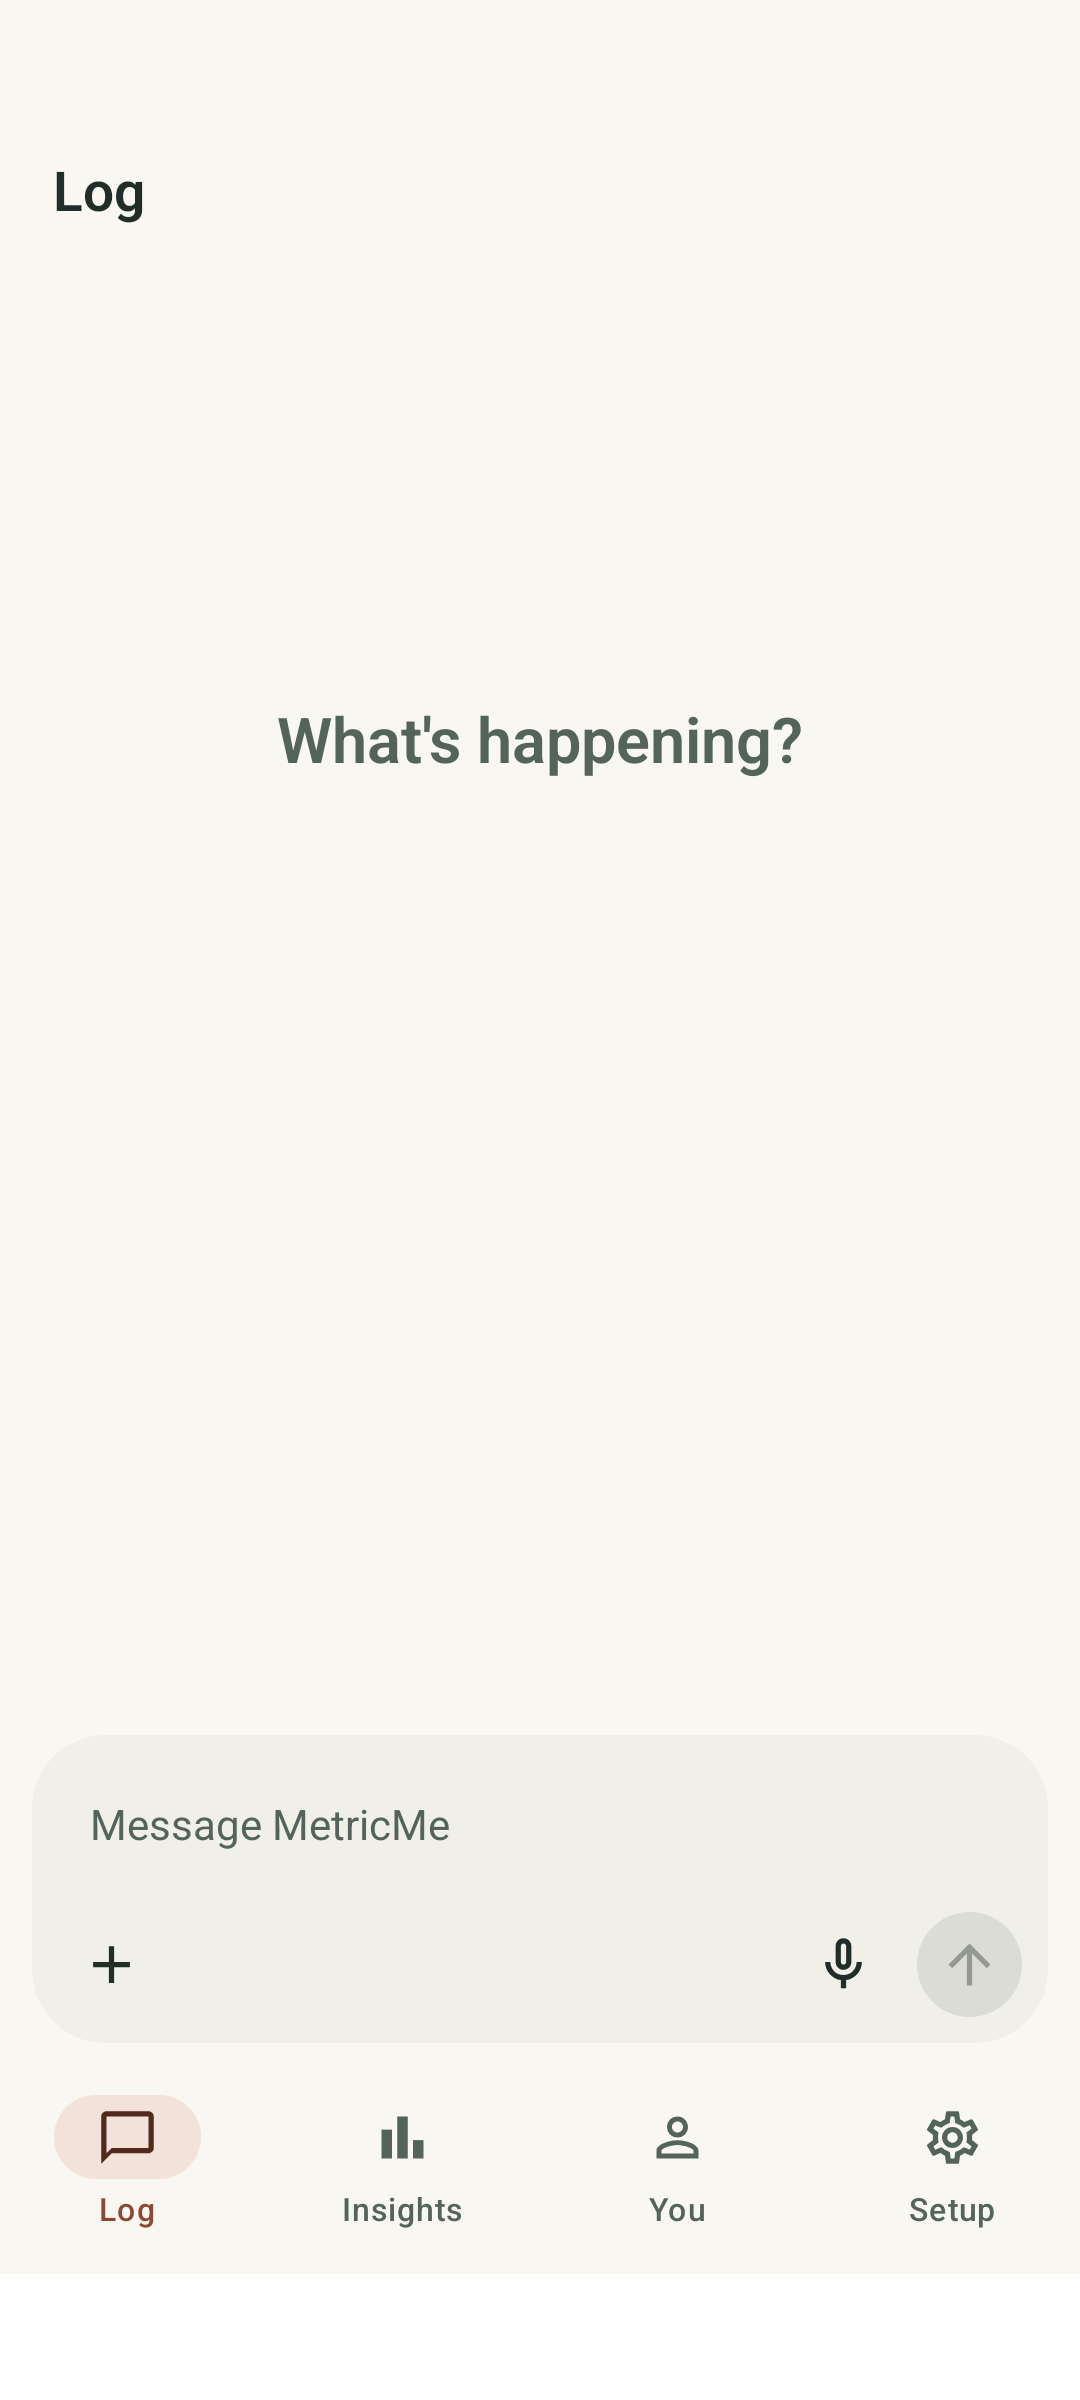
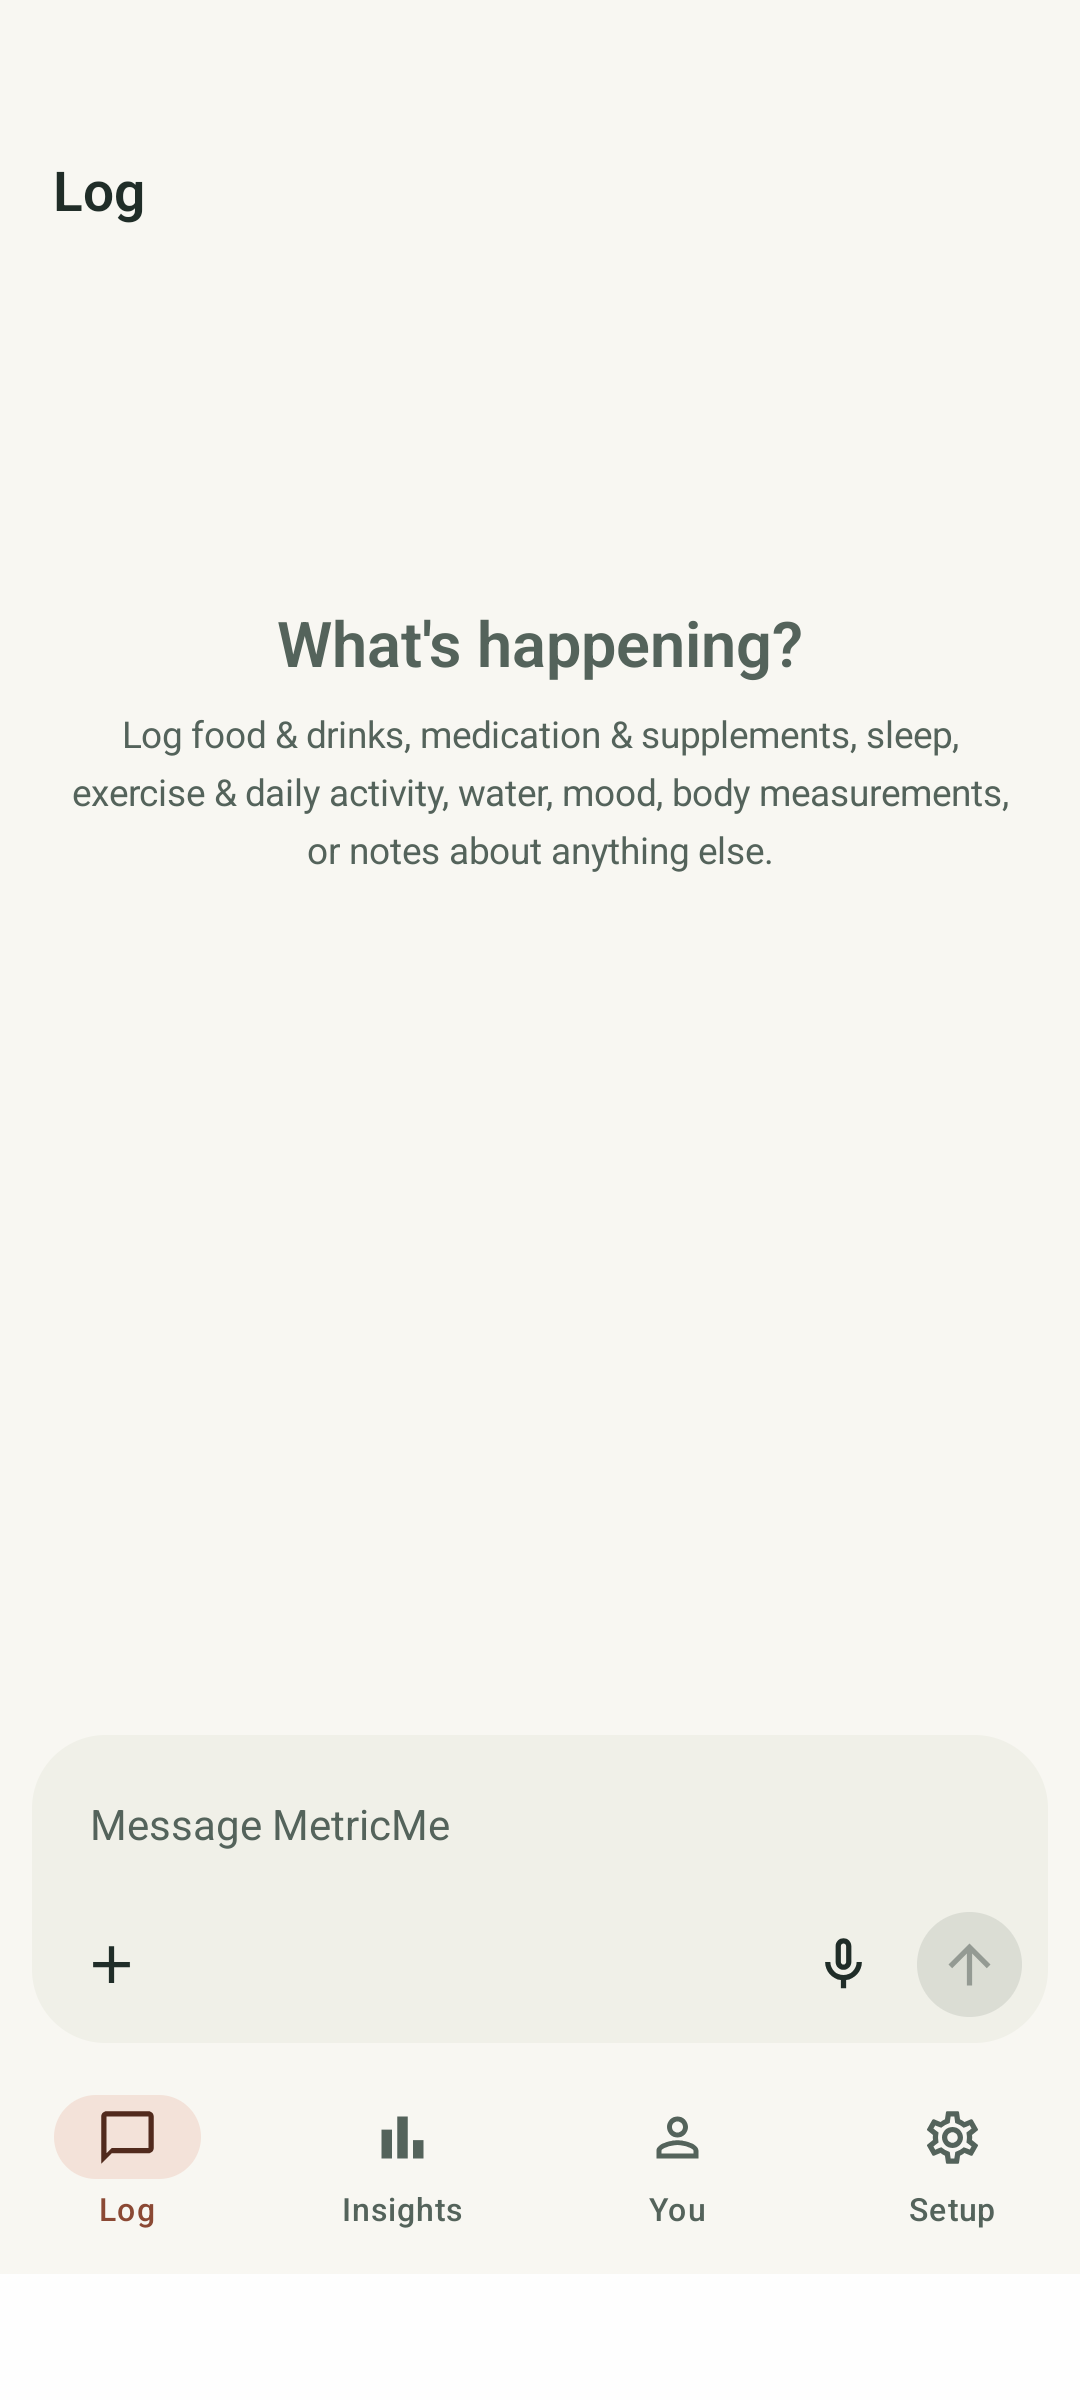
Document verified guided AI release and current interface screenshots [skip ci]

Changed region(s): [[0.0611, 0.25, 0.9167, 0.375]]

diff --git a/README.md b/README.md
@@ -2,10 +2,10 @@
 
 A calm, local-first native Android habit and health journal. Kotlin, Jetpack Compose Material 3, Hilt, Room, and a pure Kotlin domain module.
 
-**Current implementation: Android 0.5.0 chat interface.** Journal and AI capture share one screen for text, voice and photos. Clear statements become categorized, account-linked PostgreSQL records; ambiguous statements get clarification. Food estimates stay labelled and entries can be edited, undone or deleted. Insights query saved records and calculate descriptive summaries, rather than replaying a long chat. Offline manual logging remains available separately. See [the 0.5.0 interface and verification notes](docs/ANDROID-0.5.0.md).
+**Current implementation: Android 0.5.1 guided AI journal.** Journal and AI capture share one screen for text, voice and photos. Useful, clarified statements become categorized, account-linked PostgreSQL records. Food needs consumed portions and a calorie estimate; essential missing details trigger repeated focused questions. Separate Log and Insights task state survives app recreation. Food estimates stay labelled and entries can be edited, undone or deleted. Insights query saved records and calculate descriptive summaries, rather than replaying a long chat. Offline manual logging remains available separately. See [the 0.5.1 guidance and verification notes](docs/ANDROID-0.5.1.md).
 
-<img src="docs/screenshots/log.png" width="320" alt="MetricMe 0.5.0 chat logging screen captured on the CI emulator">
-<img src="docs/screenshots/insights.png" width="320" alt="MetricMe 0.5.0 Insights chat captured during tab and rotation tests">
+<img src="docs/screenshots/log.png" width="320" alt="MetricMe 0.5.1 guided chat logging screen captured on the CI emulator">
+<img src="docs/screenshots/you.png" width="320" alt="MetricMe 0.5.1 You tab with explicit age, gender and daily calorie target">
 
 ## Build
 
@@ -26,13 +26,15 @@ Debug APK: `app/build/outputs/apk/debug/app-debug.apk`. Test reports: `domain/bu
 
 ## Try the app
 
-[Download MetricMe 0.5.0](https://metricme-downloads.vercel.app/MetricMe-0.5.0.apk). It can update the downloadable 0.3.1 build in place; the earlier 0.3.0 debug build has an incompatible signing key.
+[Download MetricMe 0.5.1](https://metricme-downloads.vercel.app/MetricMe-0.5.1.apk). It can update the downloadable 0.3.1 build in place; the earlier 0.3.0 debug build has an incompatible signing key.
 
 Open **Setup → Sign in with a code**, approve the code in your browser, and return to MetricMe. Public service settings are prefilled; Advanced connection settings support custom deployments. Never put an OpenAI key in Android.
 
-The **Log** tab opens directly into a chat, with a microphone and an attachment menu for photos, camera and audio files. AI identifies the categories; there is no logging category picker. Speak, type or attach a photo and tap Send. After first-use consent, clear events are saved automatically under Food, Medication, Sleep, Activity, Water, Mood, Measurement or Note. Ambiguous statements get a question. Each entry can be edited/deleted, and the latest saved batch can be undone.
+The **Log** tab opens directly into a chat, with a microphone and an attachment menu for photos, camera and audio files. AI identifies the categories; there is no logging category picker. Speak, type or attach a photo and tap Send. After first-use consent, events with sufficient details are saved automatically under Food, Medication, Sleep, Activity, Water, Mood, Measurement or Note. Missing portion/preparation, dose, duration or other essential details get follow-up questions before the batch is saved. Each entry can be edited/deleted, and the latest saved batch can be undone.
 
 **Insights** is a separate database-backed chat with Daily, Weekly and Monthly summary shortcuts, table responses, and a question composer. Ask “When did I last have a burger?” to retrieve the latest matching saved record. Meal names, notes, portions and exact times are kept for three calendar months; nutrition-only records remain for longer-term summaries. See [0.4.1 retention and lookup behavior](docs/ANDROID-0.4.1.md). These features provide descriptive retrieval and aggregates, not causal conclusions or medical advice. See [the 0.4.0 behavior and verification report](docs/ANDROID-0.4.0.md).
+
+**You → Daily calorie target → Get AI recommendation** shares profile context after consent, then asks about physiology for the equation, usual activity, goal and whether a general estimate is suitable. The server calculates a reproducible starting estimate, which you must accept. Current profile and the dated accepted target can then inform Insights; profile changes invalidate the target. Gender identity is not used to infer physiology.
 
 **Setup → Data settings → Offline records** preserves the earlier local journal, Log forms and reminders. These Room records stay separate from the cloud journal and are not silently uploaded or included in cloud summaries. Name, age (calculated from date of birth), gender, height and weight are in **You**. **Setup** contains AI sign-in and collapsed data settings; offline records, reminders, old AI drafts and sample mode are kept there. Read [the reminder behavior and limitations](docs/REMINDERS.md). Older photo/audio drafts remain accessible for migration; they retain the original explicit review/confirmation flow.
 

diff --git a/docs/ANDROID-0.5.1.md b/docs/ANDROID-0.5.1.md
@@ -14,4 +14,10 @@ Profile and target files remain on the device. Only after enabling profile shari
 
 Sources informing implementation: [NIDDK Body Weight Planner](https://www.niddk.nih.gov/health-information/weight-management/body-weight-planner), [OpenAI Structured Outputs](https://developers.openai.com/api/docs/guides/structured-outputs), [OpenAI conversation state](https://developers.openai.com/api/docs/guides/conversation-state). The implementation uses explicit compact context and store=false, not a provider-hosted conversation.
 
-Validation and deployment: pending. Automated fake-upstream tests do not establish live model judgment quality; a signed-in phone check remains necessary.
+Validation: [Android CI](https://github.com/hbhaq/metricme-cc/actions/runs/41704889329) passed on 4966a0bd7956c64796d31fa8c0d7b6d73bd20b96: 41 emulator tests and 29 domain tests, APK assembly, instrumentation assembly and lint (0 errors, 14 existing warnings). The client tests run three-turn food and three-turn Insights tasks across ViewModel recreation, check profile-sharing consent/account isolation and invalidate targets after measurement changes. The tests found and verified a restoration loading-state race; initialization now stays busy until its first refresh completes, and clarification-only replies no longer fetch unchanged journal history. Final Log and You screenshots were visually inspected.
+
+[Backend CI](https://github.com/hbhaq/metricme-cc/actions/runs/41704889309) passed 32 backend and 19 contract tests with real PostgreSQL, no failures or skips, plus container readiness/security checks: 121 tests total across modules and emulator. Local JVM tests also passed, with database cases reserved for CI. Fake upstream responses test schemas and data flow; they do not establish live model judgment quality. A signed-in phone check remains necessary.
+
+API deployed from 91ac0acd7e134958b0a1d911d16d435b015d7efc; its backend/contracts/domain source is identical to the final tested Android commit. Deployment dpl_FHCK3L2Pn9zJJrVXA6s9KEUvPwjv at https://metricme-cc.vercel.app. Health/live and health/ready returned 200 with AI/auth configured; unauthenticated POSTs to journal and nutrition routes returned 401. The optional-null-profile request hash preserves receipts for older pending Android messages. Profile-sharing revocation prevents retries from uploading a cached profile and offers pending-question cancellation.
+
+APK: https://metricme-downloads.vercel.app/MetricMe-0.5.1.apk · version code 8 · 22,249,820 bytes. SHA-256: 5D69223DFE873BC401AB34ABBD789BC8391404266CBB0DC42FAC050C2503B897. Development signing certificate SHA-256: 783803cc1d876f0712b8c3692a6c232d361c2b3ca40ced93580b28700bdeb451, matching previous downloadable updates. The private signing key is not in Git or deployed. This remains a development APK.
